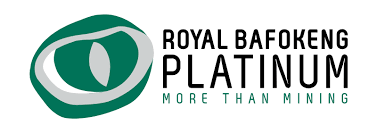
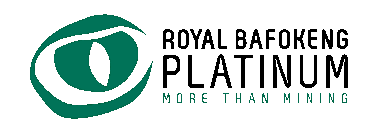
Adds transparency to images.

diff --git a/index.html b/index.html
@@ -224,7 +224,7 @@
 						<h2 class="text-center">Regional Manager Pretoria</h2>
 
 						<img
-							src="./img/SBU-Logo.jpg"
+							src="./img/SBU-Logo.png"
 							alt="Shanduka Black Umbrellas"
 							class="exp-logo"
 						/>
@@ -243,7 +243,7 @@
 						<h2 class="text-center">Technical Advisor</h2>
 
 						<img
-							src="./img/2017-GIZ-Logo.jpg"
+							src="./img/2017-GIZ-Logo.png"
 							alt="German International Co-operation"
 							class="exp-logo"
 						/>
@@ -388,7 +388,7 @@
 						</h2>
 
 						<img
-							src="./img/kingdom-cd5cd.jpg"
+							src="./img/kingdom-cd5cd.png"
 							alt="Kingdom Bank"
 							class="exp-logo"
 						/>
@@ -472,7 +472,7 @@
 						<p>Master of Science Degree in Strategic Management</p>
 
 						<img
-							src="./img/cut.jpg"
+							src="./img/cut.png"
 							alt="Chinhoyi University of Technology"
 							class="edu-logo"
 						/>
@@ -498,7 +498,7 @@
 						<p>Institute of Bankers Diploma in Banking</p>
 
 						<img
-							src="./img/iob.jpg"
+							src="./img/iob.png"
 							alt="Institute of Bankers Zimbabwe"
 							class="edu-logo"
 						/>
